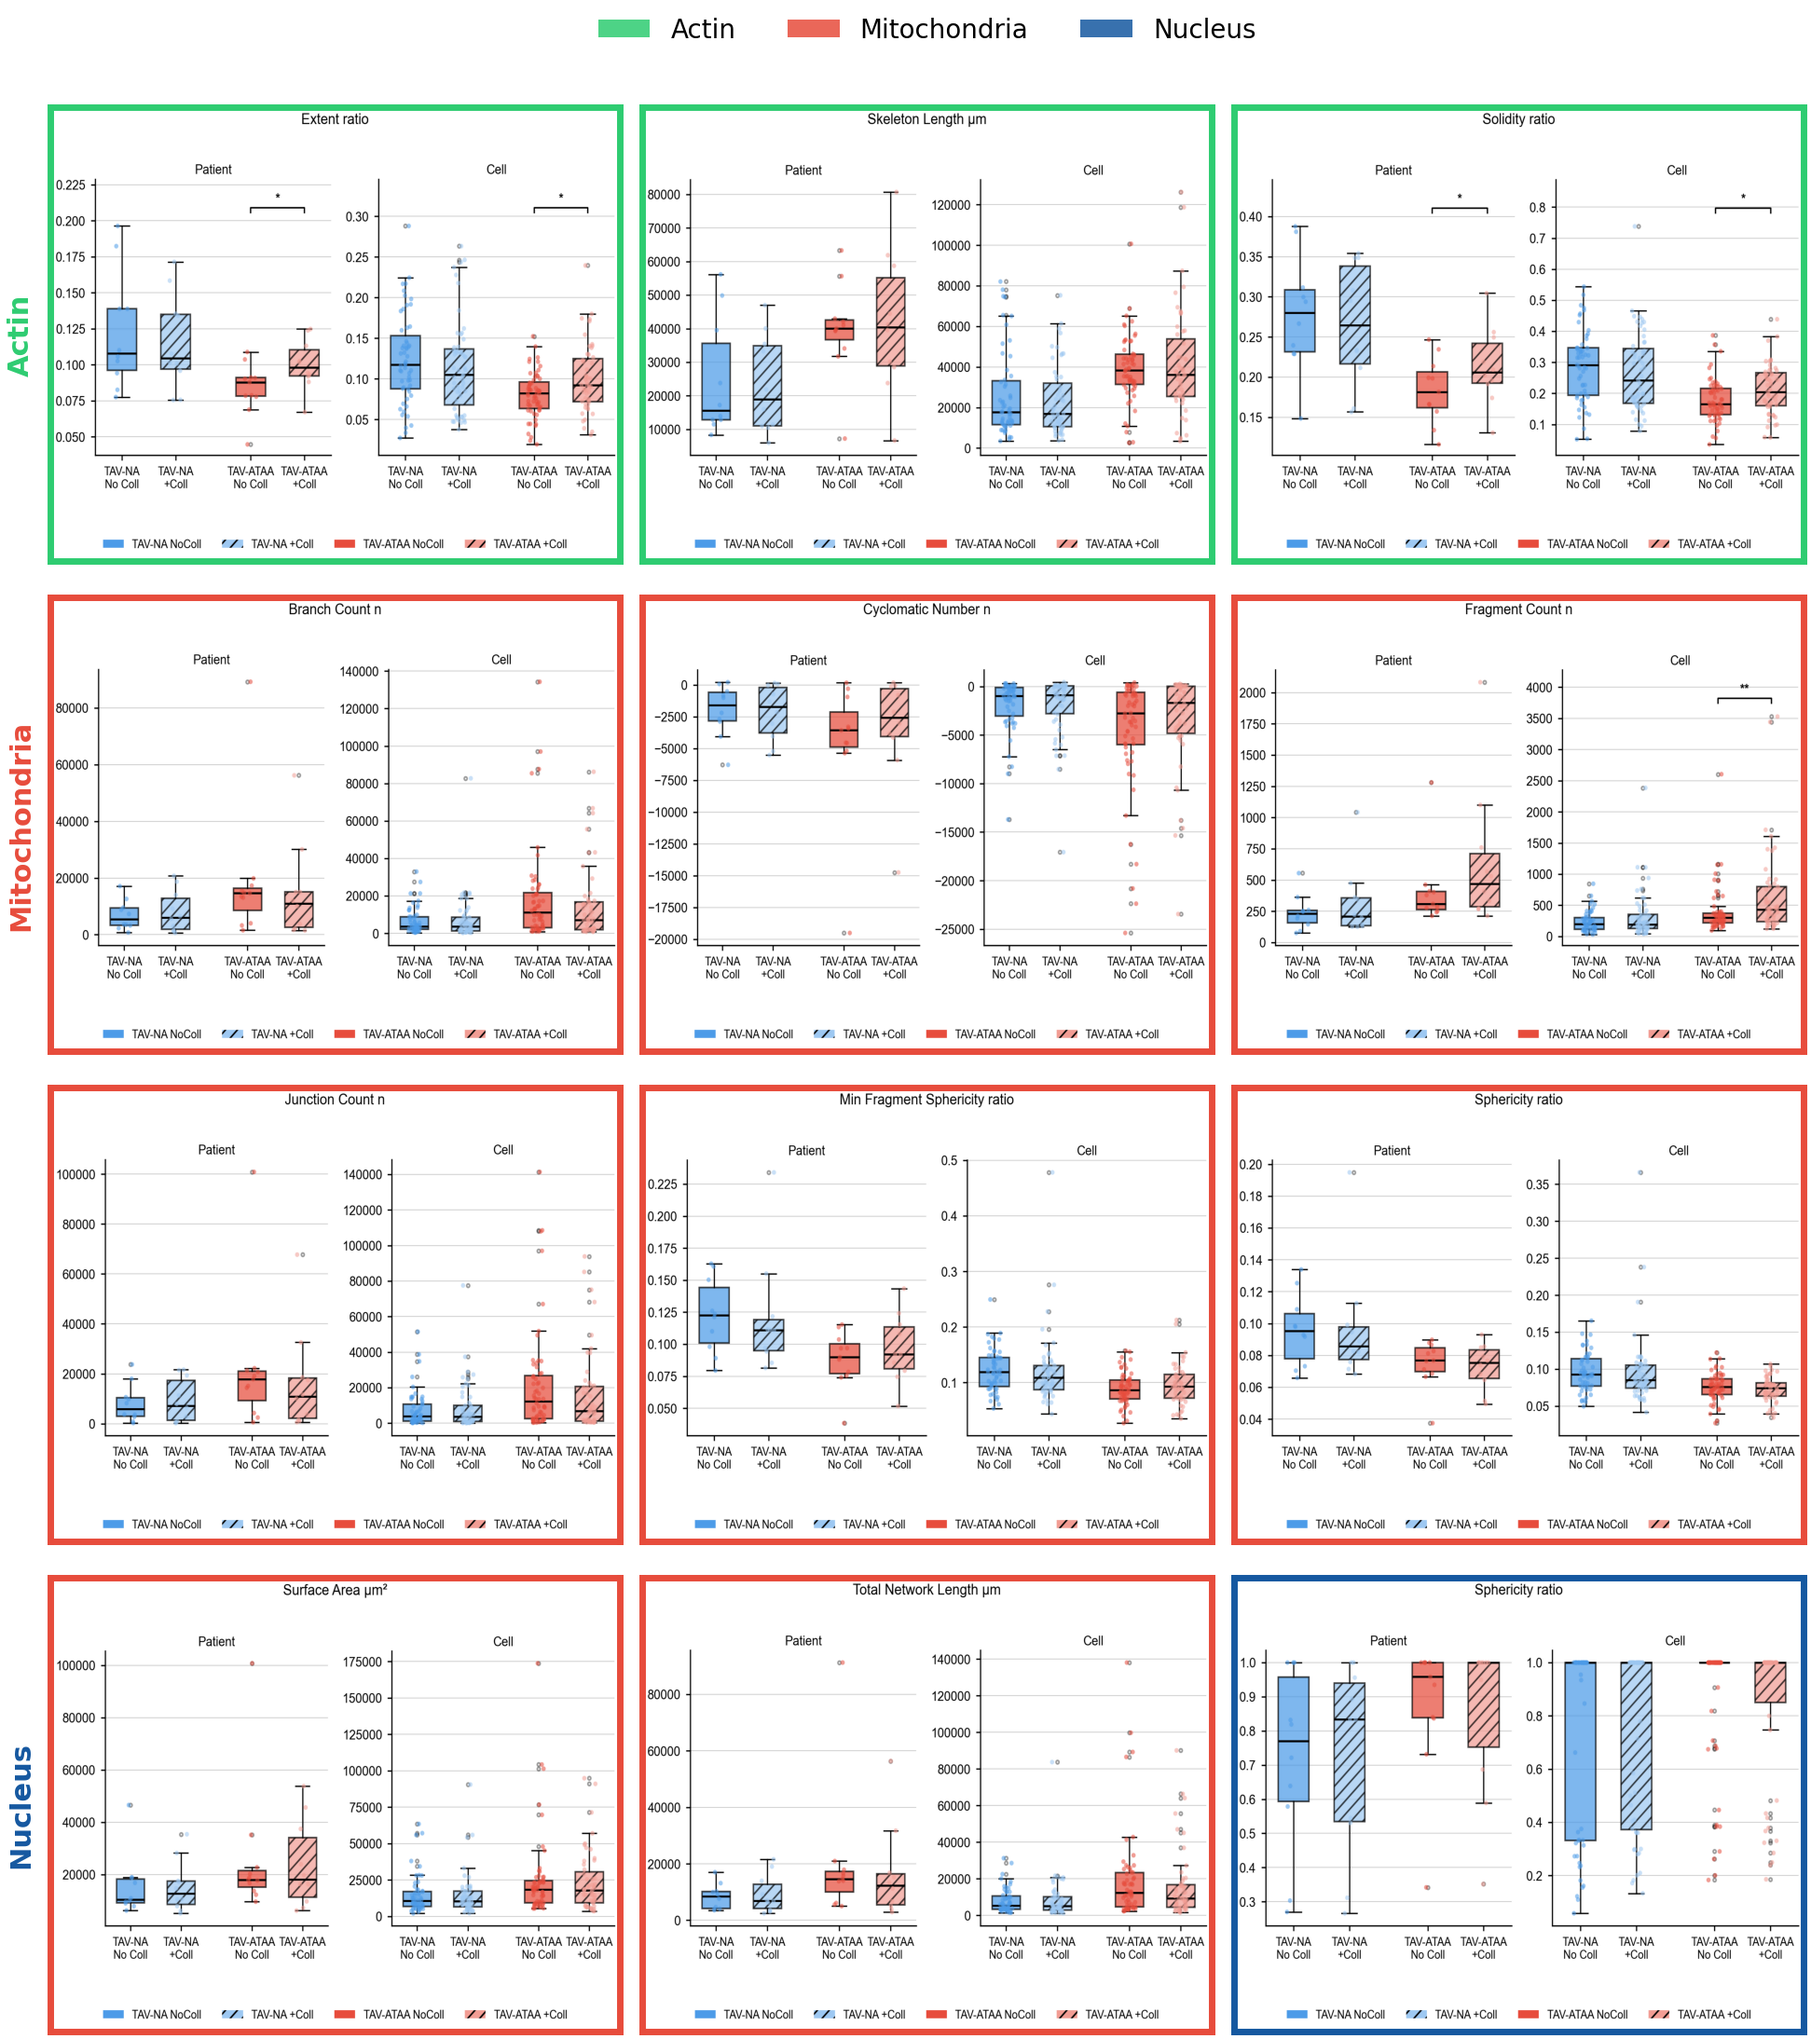
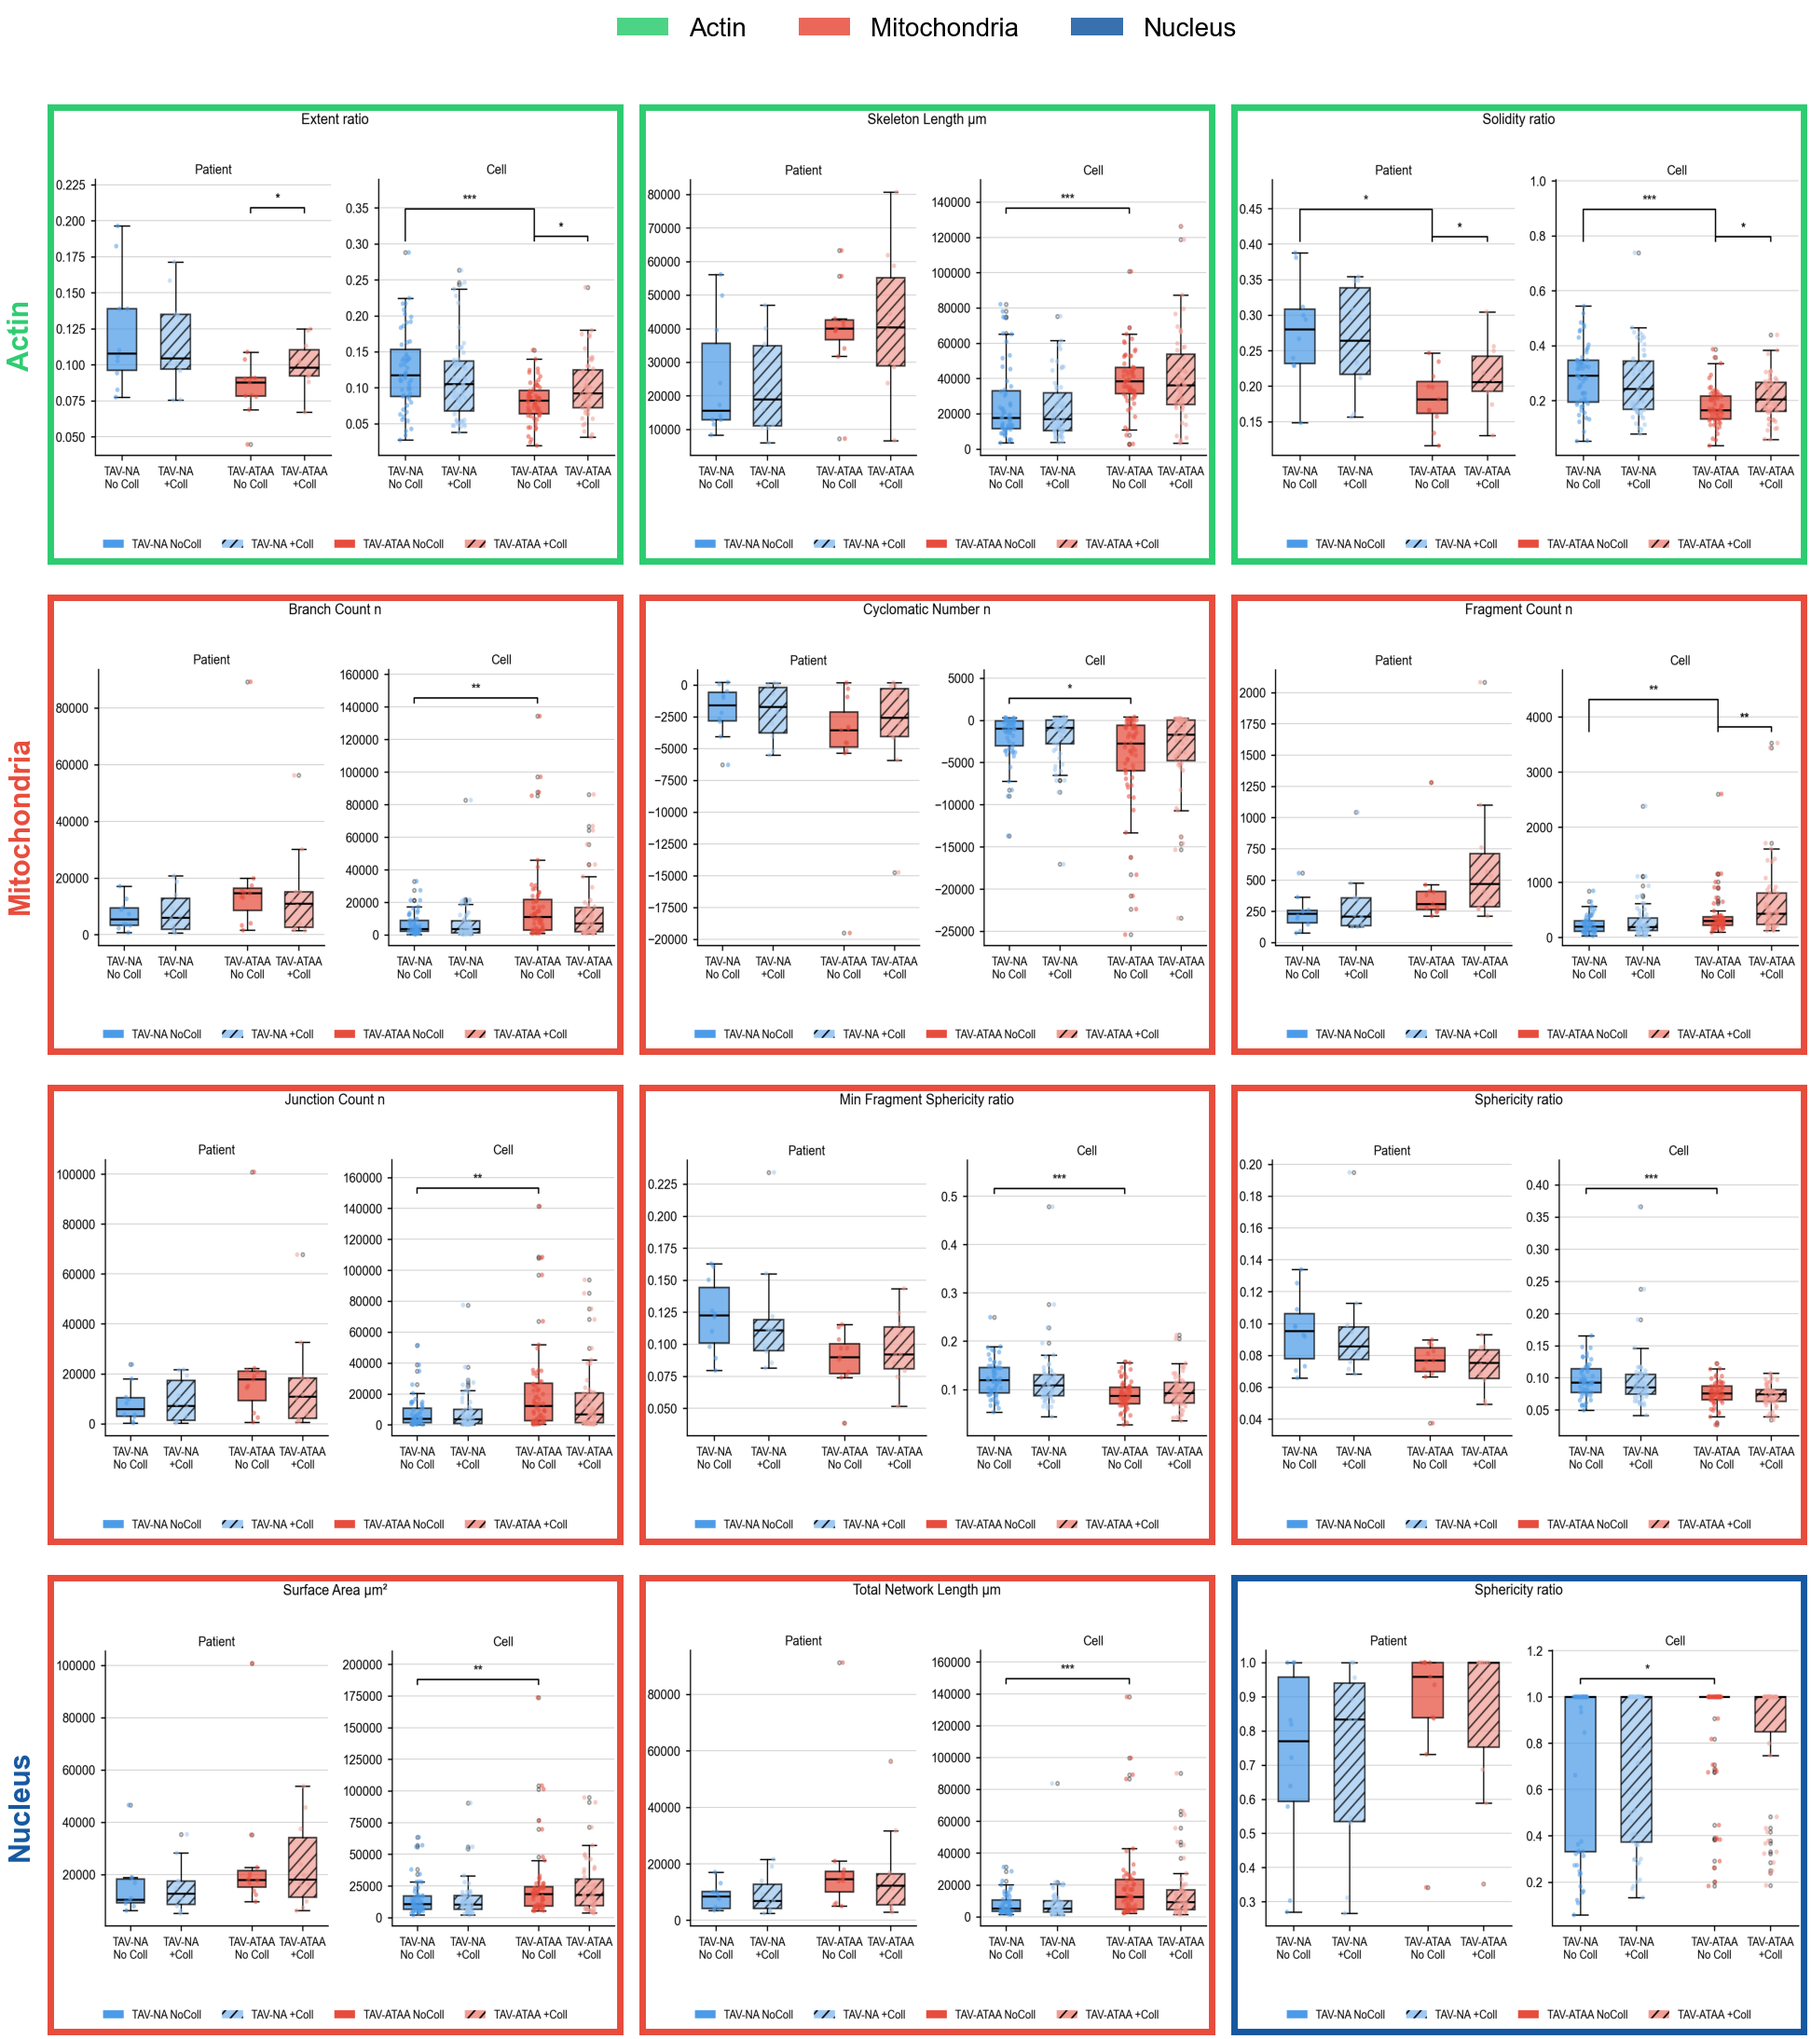
add debug logging to TAV/BAV classifier and fix cell-level significance bars in collagen plots

diff --git a/src/analysis/shared_stats.py b/src/analysis/shared_stats.py
@@ -1301,12 +1301,14 @@ def plot_sex_heatmap(df_pt, feat_cols, g1, g2, path):
 # ══════════════════════════════════════════════════════════════════════════════
 # PLOT: PER-FEATURE 4-GROUP BOXPLOTS (NoCollagen vs +Collagen × 2 groups)
 # ══════════════════════════════════════════════════════════════════════════════
-def plot_boxplots_collagen_per_feature(df, feat_cols, g1, g2, out_dir, prefix='col'):
+def plot_boxplots_collagen_per_feature(df, feat_cols, g1, g2, out_dir, prefix='col',
+                                       res_pt=None, res_cell=None):
     """
     For every feature: two panels (patient-level left, cell-level right).
     Each panel has 4 groups:
       g1 NoCollagen | g1 +Collagen | g2 NoCollagen | g2 +Collagen
     Collagen rescue p-value (paired Wilcoxon patient / MWU cell) annotated.
+    If res_pt/res_cell provided, L1 pairwise significance also annotated.
     Saves one PNG per feature into out_dir/per_feature_collagen/.
     """
     from scipy.stats import wilcoxon as _wilcoxon
@@ -1413,10 +1415,21 @@ def plot_boxplots_collagen_per_feature(df, feat_cols, g1, g2, out_dir, prefix='c
             sig_pairs = [(pos_nc, pos_col, p)
                          for (_, pos_nc, pos_col), p in p_vals.items()
                          if not np.isnan(p) and p < ALPHA]
-            if sig_pairs:
+
+            # L1 pairwise significance (g1 vs g2, NoColl condition)
+            l1_q = None
+            res_src = res_cell if is_cell else res_pt
+            if res_src is not None:
+                row = res_src[res_src['Feature'] == feat]
+                if not row.empty and bool(row.iloc[0]['Significant']):
+                    l1_q = float(row.iloc[0]['BH_q'])
+
+            n_rescue = len(sig_pairs)
+            n_bars   = n_rescue + (1 if l1_q is not None else 0)
+            if n_bars:
                 ymin, ymax = ax.get_ylim()
                 yr = ymax - ymin
-                ax.set_ylim(ymin, ymax + yr * 0.15 * len(sig_pairs))
+                ax.set_ylim(ymin, ymax + yr * 0.15 * n_bars)
                 for k, (pos_nc, pos_col, p) in enumerate(sig_pairs):
                     b_y = ymax + yr * (0.03 + 0.13 * k)
                     ax.plot([pos_nc, pos_nc, pos_col, pos_col],
@@ -1425,6 +1438,14 @@ def plot_boxplots_collagen_per_feature(df, feat_cols, g1, g2, out_dir, prefix='c
                     ax.text((pos_nc + pos_col) / 2, b_y + yr * 0.01,
                             sig_stars(p), ha='center', va='bottom',
                             fontsize=8, fontweight='bold')
+                if l1_q is not None:
+                    b_y = ymax + yr * (0.03 + 0.13 * n_rescue)
+                    ax.plot([positions[0], positions[0], positions[2], positions[2]],
+                            [ymax + yr * 0.01, b_y, b_y, ymax + yr * 0.01],
+                            'k-', lw=0.9)
+                    ax.text((positions[0] + positions[2]) / 2, b_y + yr * 0.01,
+                            sig_stars(l1_q), ha='center', va='bottom',
+                            fontsize=8, fontweight='bold', color='#1a1a1a')
 
         patches = [
             mpatches.Patch(facecolor=c1,     label=f'{g1_label} NoColl'),

diff --git a/src/analysis/final_thesis_part1/run.py b/src/analysis/final_thesis_part1/run.py
@@ -115,7 +115,7 @@ def main():
     ss.plot_collagen_bars(pt_coll, cell_coll, G1, G2,
                           COL_DIR / 'L4_collagen_rescue.png')
     ss.plot_boxplots_collagen_per_feature(df, feat_cols, G1, G2,
-                                          COL_DIR, prefix='L4')
+                                          COL_DIR, prefix='L4', res_pt=res_pt, res_cell=res_cell)
     ss.plot_boxplots_rescue_per_feature(df_pt, df_nc, df, feat_cols,
                                         res_pt, res_cell,
                                         G1, G2, COL_DIR, prefix='L4_rescue')

diff --git a/src/analysis/final_thesis_part2/run.py b/src/analysis/final_thesis_part2/run.py
@@ -118,7 +118,7 @@ def main():
     ss.plot_collagen_bars(pt_coll, cell_coll, G1, G2,
                           COL_DIR / 'L4_collagen_rescue.png')
     ss.plot_boxplots_collagen_per_feature(df, feat_cols, G1, G2,
-                                          COL_DIR, prefix='L4')
+                                          COL_DIR, prefix='L4', res_pt=res_pt, res_cell=res_cell)
     ss.plot_boxplots_rescue_per_feature(df_pt, df_nc, df, feat_cols,
                                         res_pt, res_cell,
                                         G1, G2, COL_DIR, prefix='L4_rescue')

diff --git a/app/app.py b/app/app.py
@@ -132,6 +132,10 @@ def classify_subtypes():
                 df_pred[col] = 0.0
         df_pred = df_pred[feat_list].fillna(0)
 
+        print("[DEBUG TAV/BAV] Features sent to classifier:")
+        for col in feat_list:
+            print(f"  {col}: {df_pred[col].values[0]:.2f}")
+
         probas    = pipe.predict_proba(df_pred)[0]
         # align probas with label_names order
         clf_classes = list(pipe.classes_)
